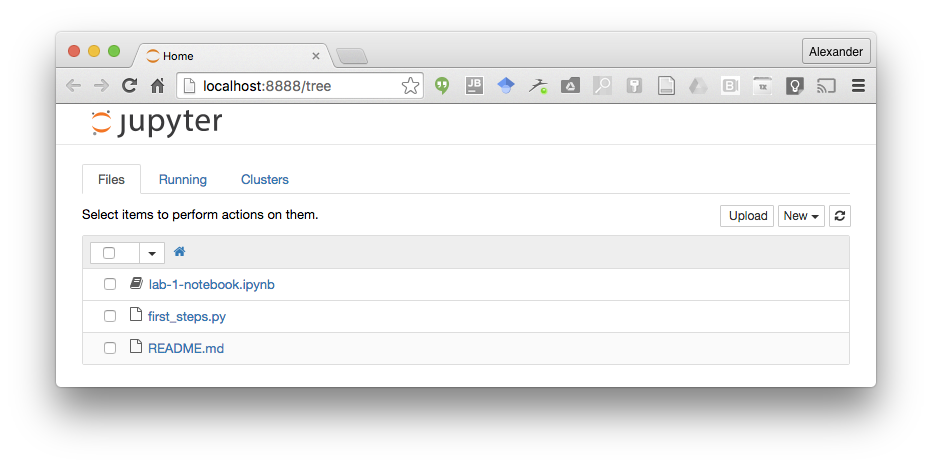
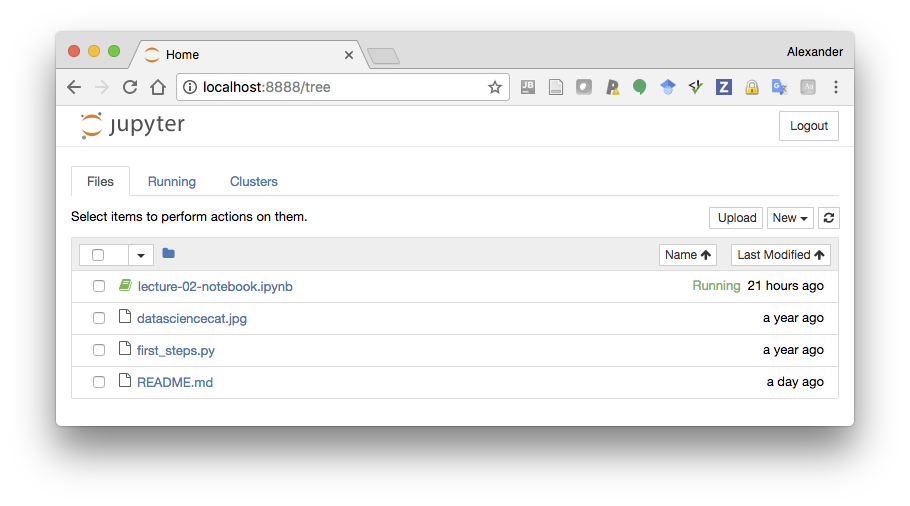
updated reference to lecture notebook

diff --git a/HW0/README.md b/HW0/README.md
@@ -91,7 +91,7 @@ This will start the notebook server and should open up a browser window point to
 
 ![Jupyter Notebook Screenshot](jupyter.png)
 
-Click on the `lab-1-notebook.ipynb` entry to see if it works. We'll take it from there in the labs!
+Click on the `lecture-02-notebook.ipynb` entry to see if it works. We'll take it from there in the labs!
 
 ### 4. Self Study: Python
 
